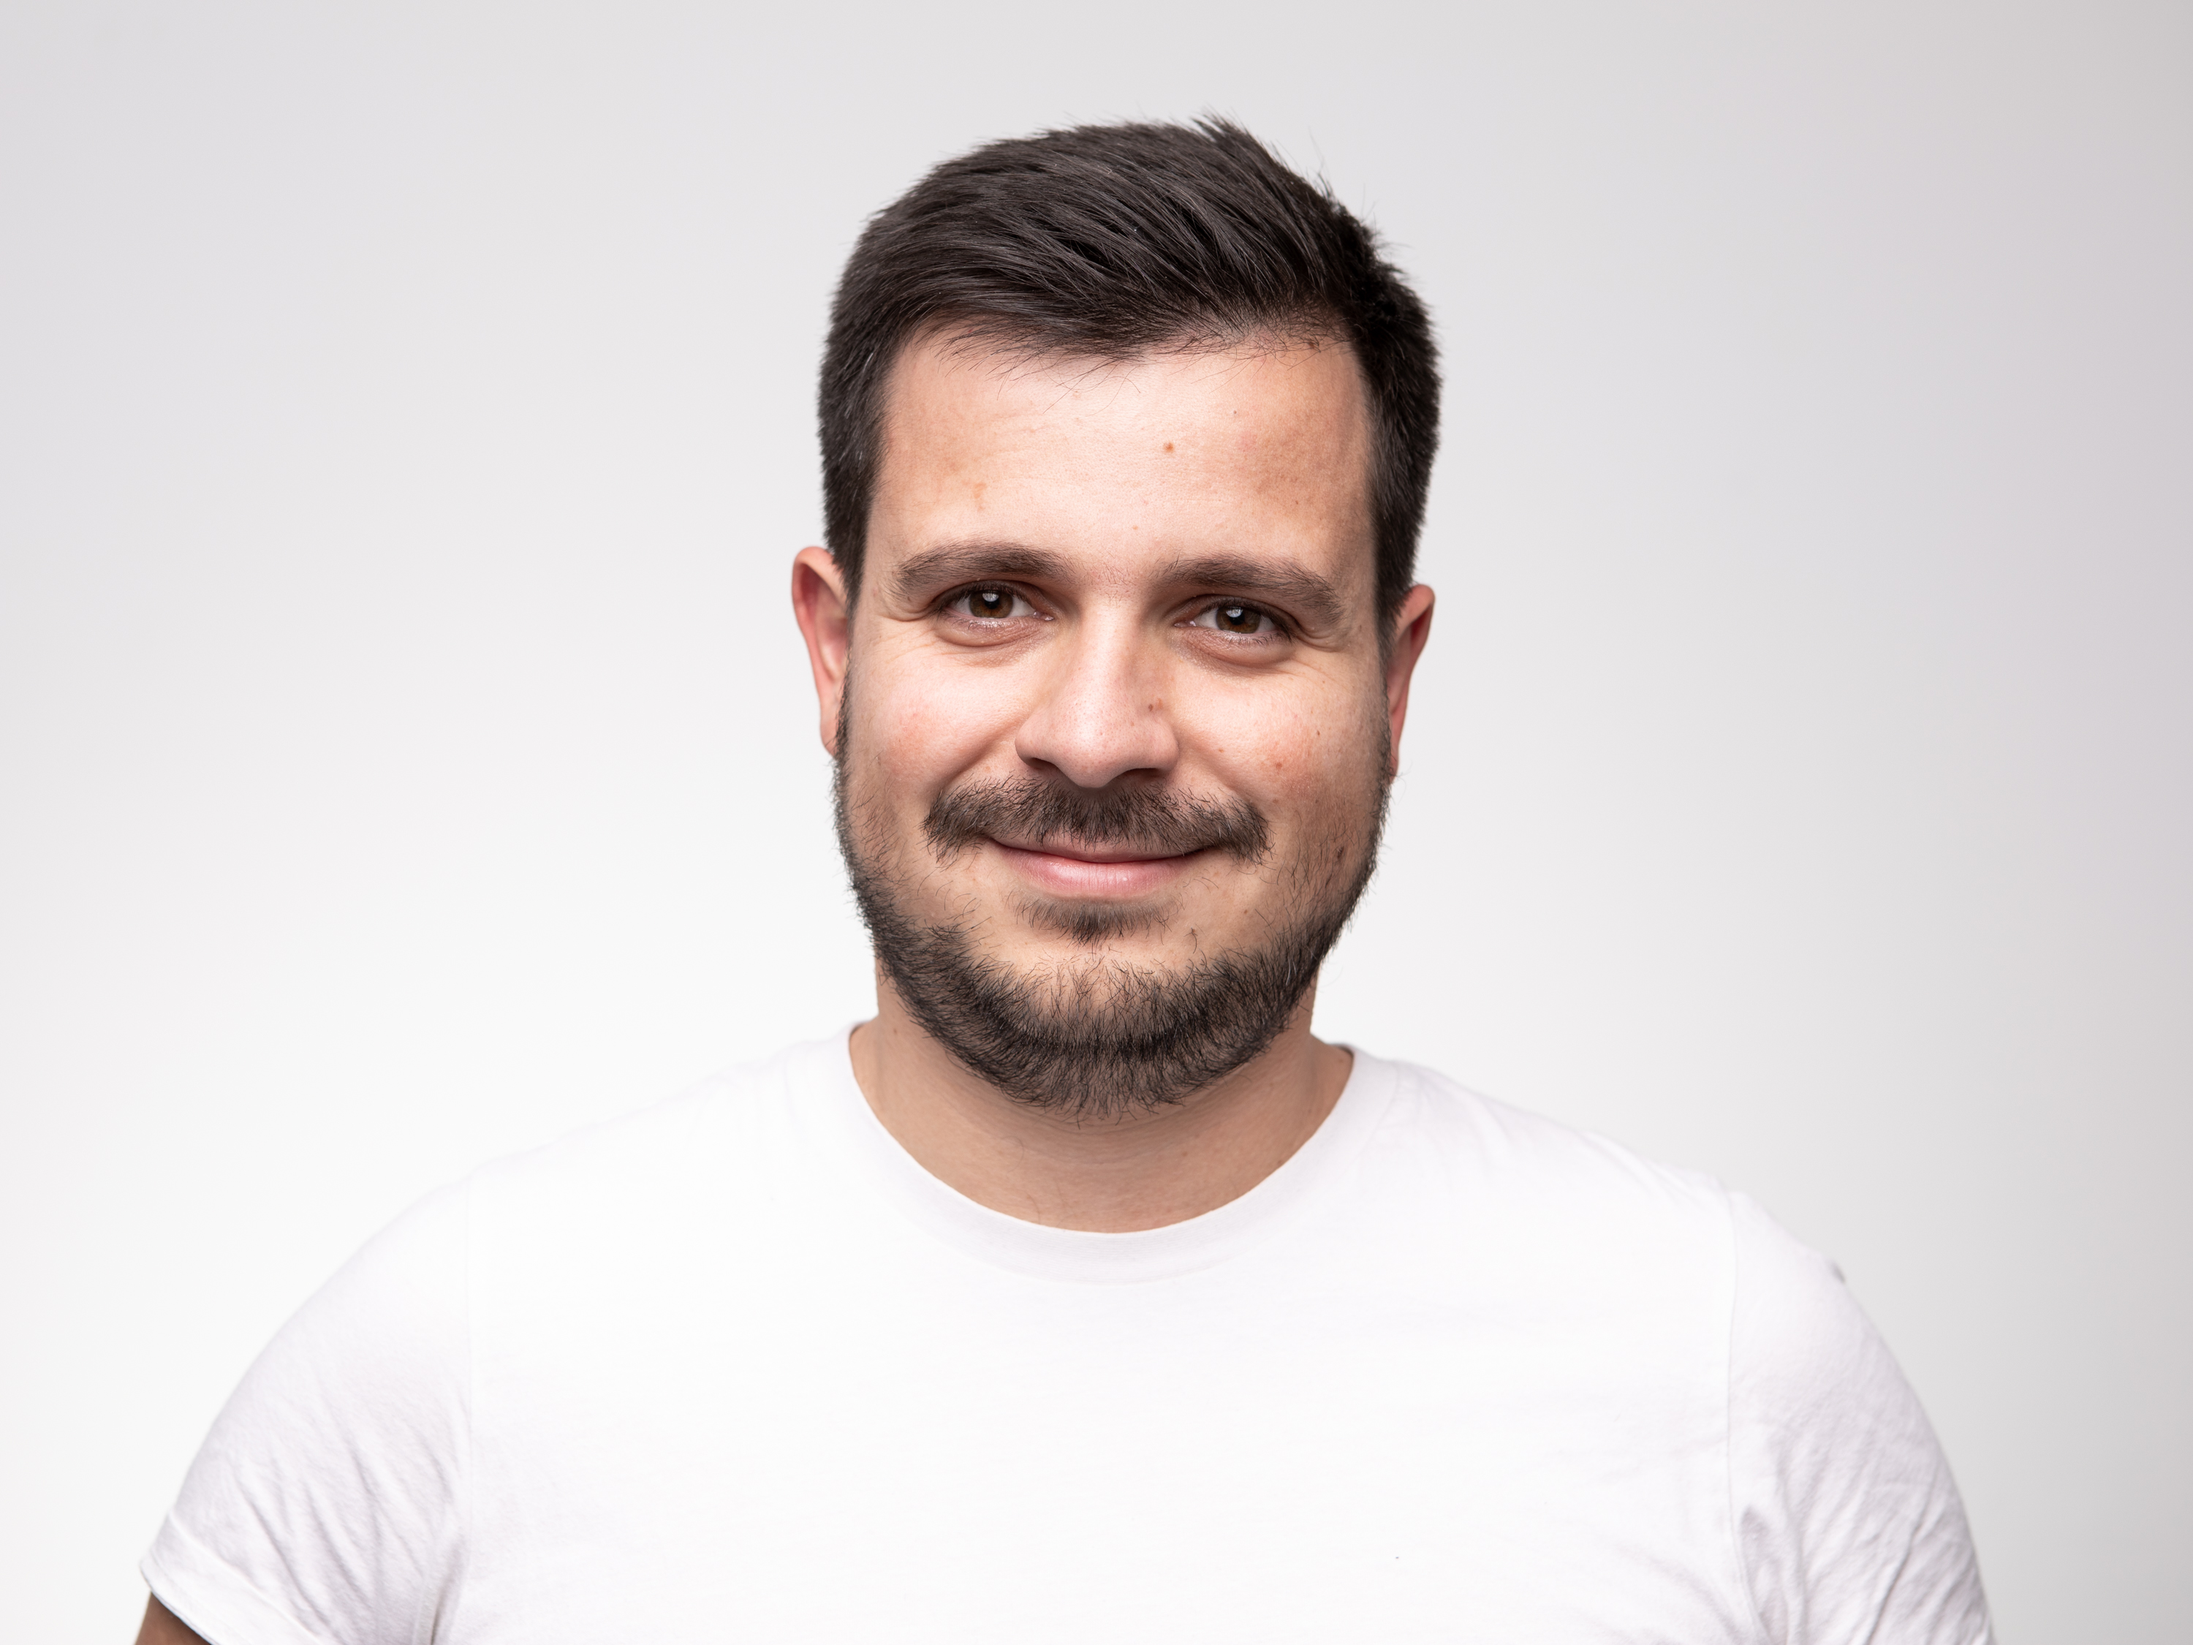
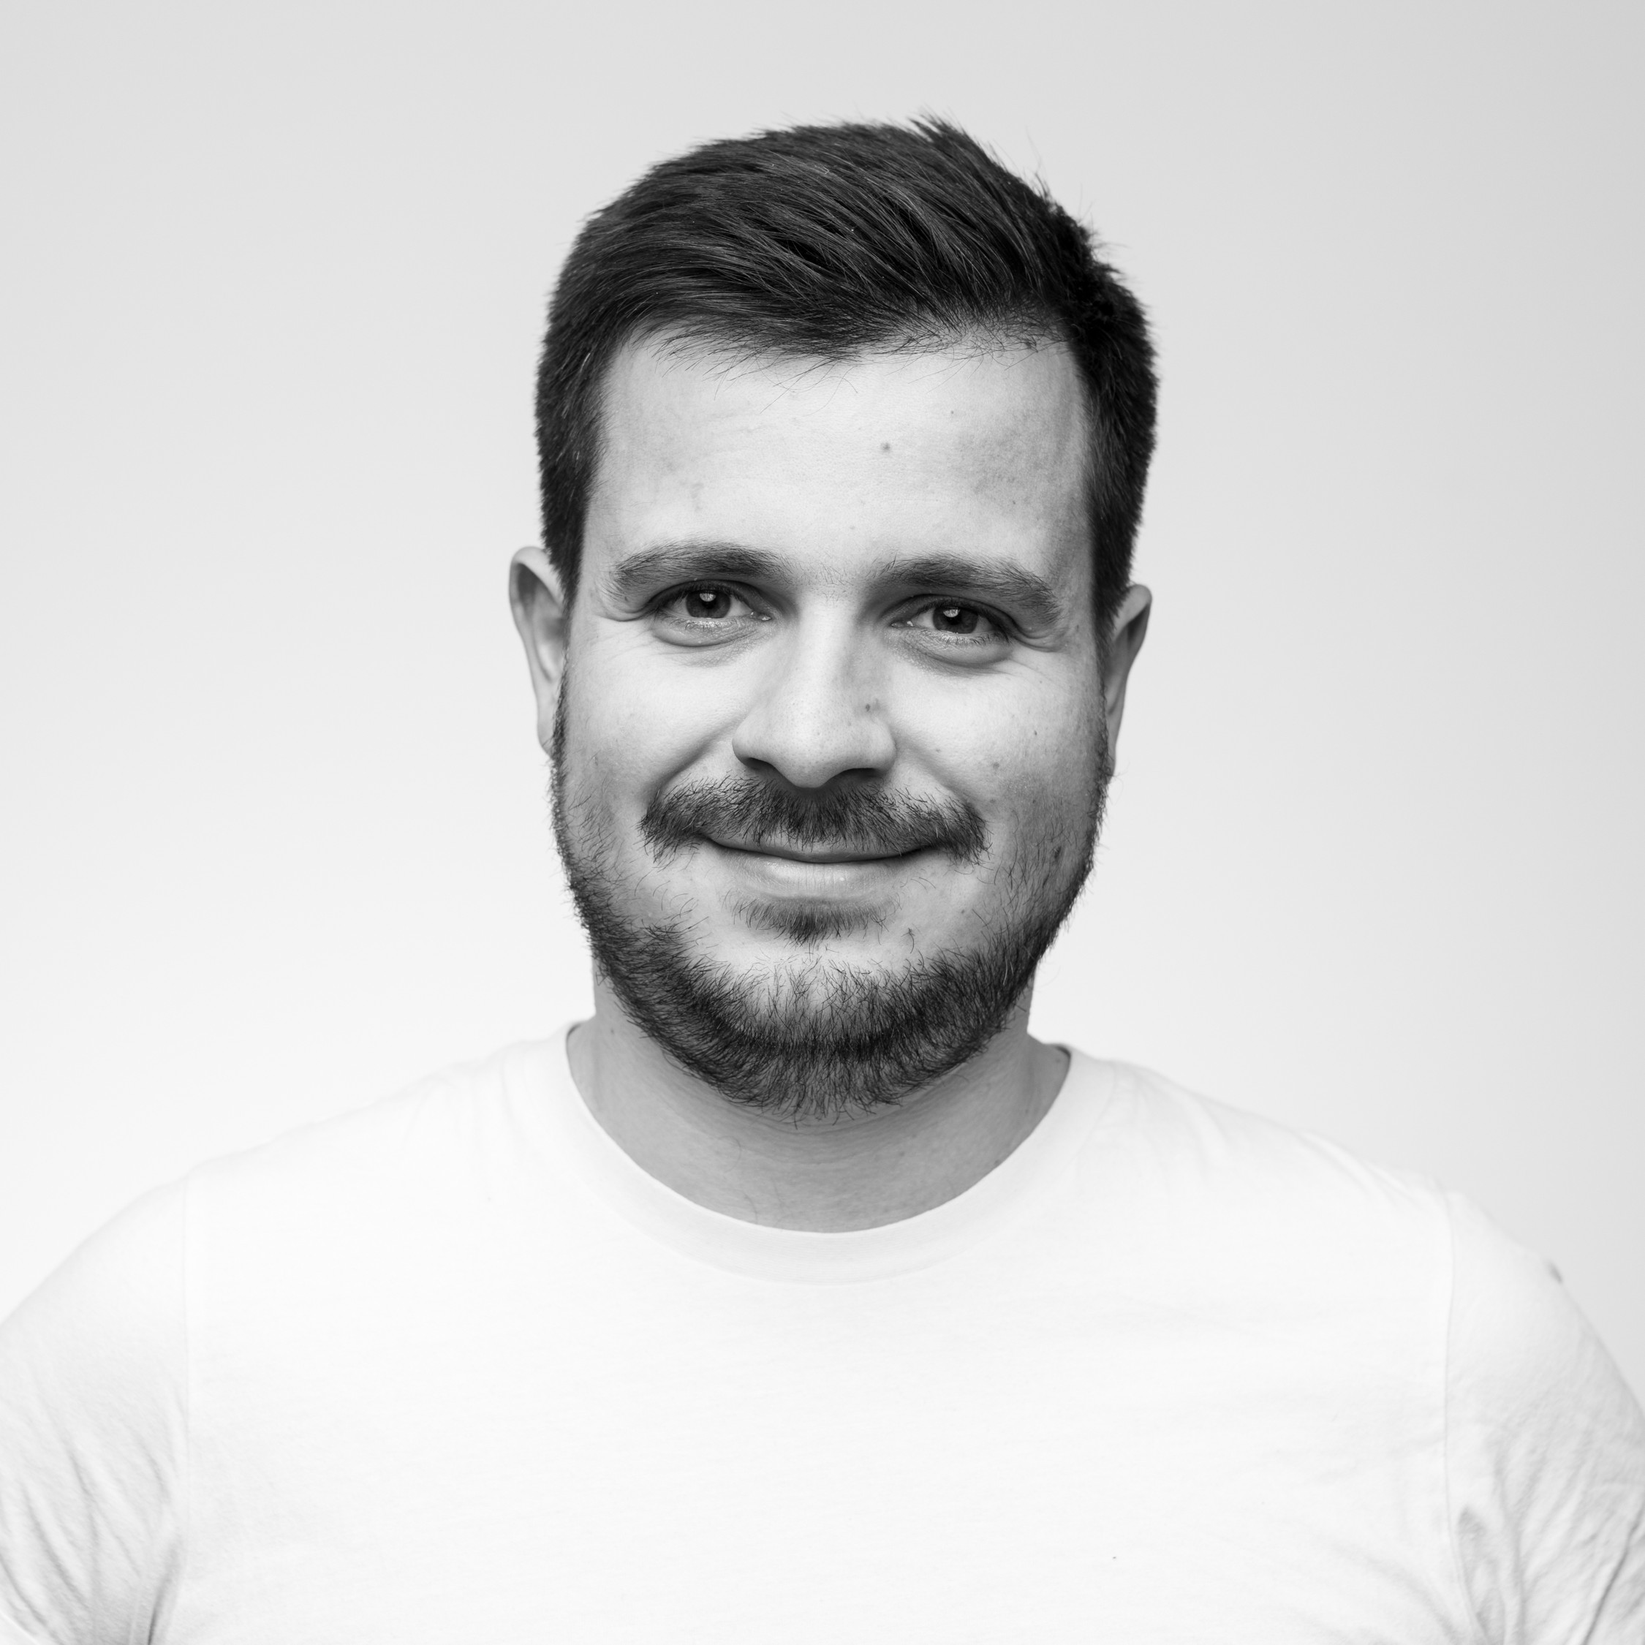
updated profile (pic)

diff --git a/_pages/about.md b/_pages/about.md
@@ -2,7 +2,7 @@
 layout: about
 title: about
 permalink: /
-subtitle: <a href='#'>Affiliations</a>. Address. Contacts. Moto. Etc.
+subtitle: VISUS, University of Stuttgart
 
 profile:
   align: left
